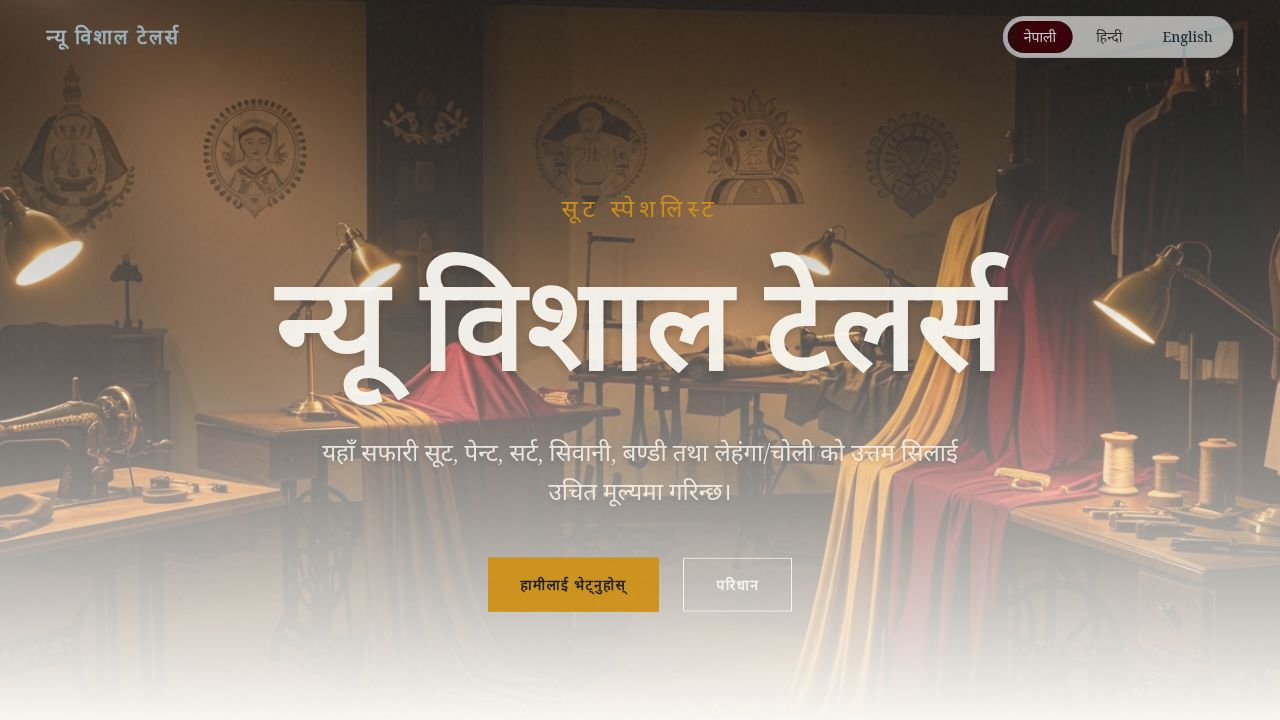
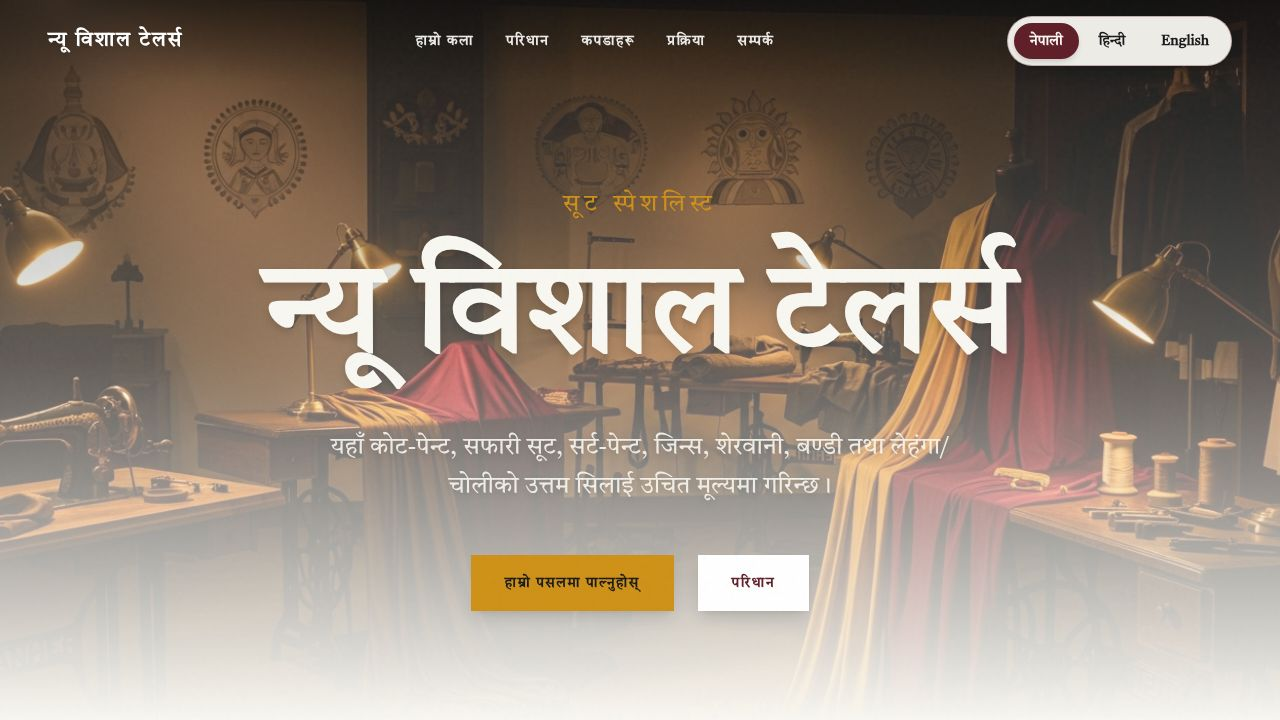
Improve website navigation, readability, and master's name accuracy
Implement smooth scrolling for navigation links, increase text contrast across the site, correct the master's name to "Molbi Mansuri" in all languages, and update the "Visit Our Atelier" text to "Visit Our Shop".

Replit-Commit-Author: Agent
Replit-Commit-Session-Id: a9e8349d-ae61-415c-960d-b4214e09bb69
Replit-Commit-Checkpoint-Type: full_checkpoint
Replit-Commit-Event-Id: ada43b0d-5d25-4c91-8212-015d30c151fc
Replit-Commit-Screenshot-Url: https://storage.googleapis.com/screenshot-production-us-central1/90add955-4820-42c9-bd46-0244ffcb3173/a9e8349d-ae61-415c-960d-b4214e09bb69/9h00boh
Replit-Helium-Checkpoint-Created: true

diff --git a/artifacts/vishal-tailors/src/lib/translations.ts b/artifacts/vishal-tailors/src/lib/translations.ts
@@ -10,9 +10,9 @@ export const translations: TranslationDictionary = {
   ne: {
     // Core details
     name: "न्यू विशाल टेलर्स",
-    owner: "मौलबी मन्सुरी",
+    owner: "मोल्बी मन्सुरी",
     tagline: "सूट स्पेशलिस्ट",
-    description: "यहाँ सफारी सूट, पेन्ट, सर्ट, सिवानी, बण्डी तथा लेहंगा/चोली को उत्तम सिलाई उचित मूल्यमा गरिन्छ।",
+    description: "यहाँ कोट-पेन्ट, सफारी सूट, सर्ट-पेन्ट, जिन्स, शेरवानी, बण्डी तथा लेहंगा/चोलीको उत्तम सिलाई उचित मूल्यमा गरिन्छ।",
     fabric: "यहाँ आधुनिक डिजाइनको कपडा हरू पाइन्छ।",
     address: "जानकी चौक-३, जनकपुरधाम, धनुषा, नेपाल",
 
@@ -26,7 +26,7 @@ export const translations: TranslationDictionary = {
     // About / Master
     about_eyebrow: "मास्टर कारीगर",
     about_title: "मास्टरको बारेमा",
-    about_desc: "दशकौं देखि जनकपुरको मुटुमा, मास्टर मौलबी मन्सुरीले मिथिलाको परम्परा र आधुनिक सिलाईलाई जोडेर उत्कृष्ट पहिरन तयार गर्दै आउनुभएको छ। हरेक सिलाईमा श्रद्धा र कला झल्किन्छ।",
+    about_desc: "दशकौंदेखि जनकपुरको मुटुमा, मास्टर मोल्बी मन्सुरीले मिथिलाको परम्परा र आधुनिक सिलाईलाई जोडेर उत्कृष्ट पहिरन तयार गर्दै आउनुभएको छ। हरेक सिलाईमा श्रद्धा र कला झल्किन्छ।",
     about_quote: "“कपडा त सुई-धागोले जोडिन्छ, तर पहिरन भने मनले बनाइन्छ।”",
     about_stat_years: "वर्षको अनुभव",
     about_stat_garments: "तयार पहिरन",
@@ -34,9 +34,9 @@ export const translations: TranslationDictionary = {
 
     // Owner portrait section
     owner_section_eyebrow: "हाम्रा मालिक",
-    owner_section_title: "मौलबी मन्सुरी",
+    owner_section_title: "मोल्बी मन्सुरी",
     owner_section_subtitle: "संस्थापक एवम् प्रमुख कारीगर",
-    owner_section_desc: "जनकपुरको गल्ली-गल्लीमा परिचित नाम, मौलबी मन्सुरीले आफ्नो जीवन सुई र धागोलाई समर्पित गर्नुभएको छ। उहाँको हातबाट निस्केको हरेक पहिरनले सम्मान र अपनत्वको कथा बोल्छ।",
+    owner_section_desc: "जनकपुरको गल्ली-गल्लीमा परिचित नाम, मोल्बी मन्सुरीले आफ्नो जीवन सुई र धागोलाई समर्पित गर्नुभएको छ। उहाँको हातबाट निस्केको हरेक पहिरनले सम्मान र अपनत्वको कथा बोल्छ।",
 
     // Garments
     garments_eyebrow: "हाम्रो संग्रह",
@@ -83,7 +83,7 @@ export const translations: TranslationDictionary = {
     // Testimonials
     testimonials_eyebrow: "ग्राहकका शब्दहरू",
     testimonials_title: "हाम्रा परिवार के भन्छन्",
-    testimonial1: "मेरो विवाहको शेरवानी जति सुन्दर थियो, सिलाई पनि त्यतिकै नाप मिल्दो थियो। मौलबी जीको हातमा साँच्चै जादु छ।",
+    testimonial1: "मेरो विवाहको शेरवानी जति सुन्दर थियो, सिलाई पनि त्यतिकै नाप मिल्दो थियो। मोल्बी जीको हातमा साँच्चै जादु छ।",
     testimonial1_author: "रामेश्वर साह — विराटनगर",
     testimonial2: "वर्षौं देखि हाम्रो परिवारले यहीँबाट सिलाउँछौं। एकपटक नाप लिएपछि सधैं उत्तम फिट हुन्छ।",
     testimonial2_author: "सुनीता देवी — जनकपुर",
@@ -124,9 +124,9 @@ export const translations: TranslationDictionary = {
   hi: {
     // Core details
     name: "न्यू विशाल टेलर्स",
-    owner: "मौलवी मंसूरी",
+    owner: "मोल्बी मंसूरी",
     tagline: "सूट स्पेशलिस्ट",
-    description: "यहाँ आधुनिक डिजाइन के शर्ट-पेन्ट, सूट, शेरवानी, कुर्ता-पायजामा की सिलाई की जाती है।",
+    description: "यहाँ कोट-पैंट, सफारी सूट, शर्ट-पैंट, जींस, शेरवानी, कुर्ता-पायजामा और लेहंगा-चोली की उत्तम सिलाई उचित मूल्य पर की जाती है।",
     fabric: "यहाँ आधुनिक डिजाइन के कपड़े उपलब्ध हैं।",
     address: "जानकी चौक-3, जनकपुरधाम, धनुषा, नेपाल",
 
@@ -140,7 +140,7 @@ export const translations: TranslationDictionary = {
     // About
     about_eyebrow: "मास्टर कारीगर",
     about_title: "मास्टर के बारे में",
-    about_desc: "दशकों से जनकपुर के हृदय में, मास्टर मौलवी मंसूरी मिथिला की परंपरा और आधुनिक सिलाई को जोड़कर उत्कृष्ट परिधान तैयार कर रहे हैं। हर सिलाई में श्रद्धा और कला झलकती है।",
+    about_desc: "दशकों से जनकपुर के हृदय में, मास्टर मोल्बी मंसूरी मिथिला की परंपरा और आधुनिक सिलाई को जोड़कर उत्कृष्ट परिधान तैयार कर रहे हैं। हर सिलाई में श्रद्धा और कला झलकती है।",
     about_quote: "“कपड़े सुई-धागे से जुड़ते हैं, परिधान मन से बनते हैं।”",
     about_stat_years: "वर्षों का अनुभव",
     about_stat_garments: "तैयार परिधान",
@@ -148,9 +148,9 @@ export const translations: TranslationDictionary = {
 
     // Owner portrait
     owner_section_eyebrow: "हमारे मालिक",
-    owner_section_title: "मौलवी मंसूरी",
+    owner_section_title: "मोल्बी मंसूरी",
     owner_section_subtitle: "संस्थापक एवं प्रमुख कारीगर",
-    owner_section_desc: "जनकपुर की गली-गली में पहचाना नाम, मौलवी मंसूरी ने अपना जीवन सुई और धागे को समर्पित किया है। उनके हाथों से बना हर परिधान सम्मान और अपनेपन की कहानी कहता है।",
+    owner_section_desc: "जनकपुर की गली-गली में पहचाना नाम, मोल्बी मंसूरी ने अपना जीवन सुई और धागे को समर्पित किया है। उनके हाथों से बना हर परिधान सम्मान और अपनेपन की कहानी कहता है।",
 
     // Garments
     garments_eyebrow: "हमारा संग्रह",
@@ -197,7 +197,7 @@ export const translations: TranslationDictionary = {
     // Testimonials
     testimonials_eyebrow: "ग्राहकों के शब्द",
     testimonials_title: "हमारे परिवार क्या कहते हैं",
-    testimonial1: "मेरी शादी की शेरवानी जितनी सुंदर थी, सिलाई भी उतनी ही सटीक थी। मौलवी जी के हाथों में सच में जादू है।",
+    testimonial1: "मेरी शादी की शेरवानी जितनी सुंदर थी, सिलाई भी उतनी ही सटीक थी। मोल्बी जी के हाथों में सच में जादू है।",
     testimonial1_author: "रामेश्वर साह — विराटनगर",
     testimonial2: "वर्षों से हमारा परिवार यहीं से सिलवाता है। एक बार नाप लेने के बाद हमेशा बेहतरीन फिट होता है।",
     testimonial2_author: "सुनीता देवी — जनकपुर",
@@ -206,7 +206,7 @@ export const translations: TranslationDictionary = {
 
     // Visit
     visit_eyebrow: "हमसे मिलें",
-    visit_title: "हमारे दुकान पर पधारें",
+    visit_title: "हमारी दुकान पर पधारें",
     visit_subtitle: "जनकपुरधाम के हृदय में, आपका स्वागत है।",
     visit_location: "पता",
     visit_phone: "फोन",
@@ -238,9 +238,9 @@ export const translations: TranslationDictionary = {
   en: {
     // Core details
     name: "New Vishal Tailors",
-    owner: "Maulvi Mansuri",
+    owner: "Molbi Mansuri",
     tagline: "Suit Specialist",
-    description: "We provide high-quality stitching services for suits, shirts, pants, sherwani, kurta-pajama, and lehenga-choli at affordable prices.",
+    description: "Premium tailoring for coat-pants, safari suits, shirts, jeans, sherwani, kurta-pajama, and lehenga-choli at honest, fair prices.",
     fabric: "Modern designer fabrics are available.",
     address: "Janaki Chowk-3, Janakpur Dham, Dhanusha, Nepal",
 
@@ -254,7 +254,7 @@ export const translations: TranslationDictionary = {
     // About
     about_eyebrow: "The Master Craftsman",
     about_title: "About the Master",
-    about_desc: "For decades in the heart of Janakpur, Master Maulvi Mansuri has blended Mithila tradition with modern tailoring to craft exquisite garments. Every stitch reflects devotion and artistry.",
+    about_desc: "For decades in the heart of Janakpur, Master Molbi Mansuri has blended Mithila tradition with modern tailoring to craft exquisite garments. Every stitch reflects devotion and artistry.",
     about_quote: "“Cloth is joined by needle and thread, but a garment is woven by the heart.”",
     about_stat_years: "Years of Heritage",
     about_stat_garments: "Garments Crafted",
@@ -262,9 +262,9 @@ export const translations: TranslationDictionary = {
 
     // Owner portrait
     owner_section_eyebrow: "Our Owner",
-    owner_section_title: "Maulvi Mansuri",
+    owner_section_title: "Molbi Mansuri",
     owner_section_subtitle: "Founder & Master Tailor",
-    owner_section_desc: "A familiar name in every lane of Janakpur, Maulvi Mansuri has devoted his life to needle and thread. Every garment from his hands tells a story of respect, care and craftsmanship.",
+    owner_section_desc: "A familiar name in every lane of Janakpur, Molbi Mansuri has devoted his life to needle and thread. Every garment from his hands tells a story of respect, care and craftsmanship.",
 
     // Garments
     garments_eyebrow: "Our Collection",
@@ -311,7 +311,7 @@ export const translations: TranslationDictionary = {
     // Testimonials
     testimonials_eyebrow: "In Their Words",
     testimonials_title: "What Our Family of Patrons Say",
-    testimonial1: "My wedding sherwani was as beautiful as it was perfectly fitted. Maulvi ji's hands truly carry magic.",
+    testimonial1: "My wedding sherwani was as beautiful as it was perfectly fitted. Molbi ji's hands truly carry magic.",
     testimonial1_author: "Rameshwar Sah — Biratnagar",
     testimonial2: "Our family has been stitching here for years. Once they take your measure, every garment fits flawlessly.",
     testimonial2_author: "Sunita Devi — Janakpur",
@@ -320,7 +320,7 @@ export const translations: TranslationDictionary = {
 
     // Visit
     visit_eyebrow: "Come See Us",
-    visit_title: "Visit Our Atelier",
+    visit_title: "Visit Our Shop",
     visit_subtitle: "In the heart of Janakpur Dham, you are always welcome.",
     visit_location: "Address",
     visit_phone: "Phone",

diff --git a/artifacts/vishal-tailors/src/pages/home.tsx b/artifacts/vishal-tailors/src/pages/home.tsx
@@ -134,7 +134,7 @@ export default function Home() {
                 href={link.href}
                 className={`text-sm uppercase tracking-widest font-semibold transition-colors duration-300 ${
                   scrolled
-                    ? "text-foreground/80 hover:text-primary"
+                    ? "text-foreground hover:text-primary"
                     : "text-white/90 hover:text-secondary drop-shadow-md"
                 }`}
               >
@@ -288,7 +288,7 @@ export default function Home() {
                 </a>
                 <a
                   href="#garments"
-                  className="px-8 py-4 bg-white/15 backdrop-blur-md text-white font-bold rounded-none tracking-widest hover:bg-white hover:text-primary transition-all uppercase text-sm border-2 border-white shadow-lg"
+                  className="px-8 py-4 bg-white text-primary font-bold rounded-none tracking-widest hover:bg-secondary hover:text-secondary-foreground transition-all uppercase text-sm border-2 border-white shadow-lg"
                 >
                   {t("nav_garments")}
                 </a>
@@ -328,7 +328,7 @@ export default function Home() {
                 {t("about_eyebrow")}
               </h3>
               <h2 className="text-4xl md:text-5xl font-bold text-primary mb-8">{t("about_title")}</h2>
-              <p className="text-lg md:text-xl text-foreground/80 leading-relaxed mb-8">
+              <p className="text-lg md:text-xl text-foreground leading-relaxed mb-8">
                 {t("about_desc")}
               </p>
               <p className="text-lg md:text-xl italic text-primary/80 leading-relaxed border-l-2 border-secondary pl-6 mb-8">
@@ -383,7 +383,7 @@ export default function Home() {
               <p className="text-lg md:text-xl text-secondary mb-8 italic">
                 {t("owner_section_subtitle")}
               </p>
-              <p className="text-base md:text-lg text-foreground/80 leading-relaxed mb-10 max-w-2xl">
+              <p className="text-base md:text-lg text-foreground leading-relaxed mb-10 max-w-2xl">
                 {t("owner_section_desc")}
               </p>
               <div className="flex items-center gap-4 text-foreground/60">
@@ -434,7 +434,7 @@ export default function Home() {
                   {t("garments_eyebrow")}
                 </p>
                 <SectionHeader title={t("garments_title")} centered={true} invert={true} />
-                <p className="text-primary-foreground/90 text-lg mt-4 max-w-2xl mx-auto">
+                <p className="text-primary-foreground text-lg mt-4 max-w-2xl mx-auto">
                   {t("garments_subtitle")}
                 </p>
               </motion.div>
@@ -491,7 +491,7 @@ export default function Home() {
                   {t("fabrics_eyebrow")}
                 </p>
                 <SectionHeader title={t("fabrics_title")} centered={true} />
-                <p className="text-foreground/85 text-lg mt-4 max-w-2xl mx-auto">
+                <p className="text-foreground text-lg mt-4 max-w-2xl mx-auto">
                   {t("fabrics_desc")}
                 </p>
               </motion.div>
@@ -525,7 +525,7 @@ export default function Home() {
                     className="p-8"
                   >
                     <h3 className="text-2xl font-bold text-primary mb-3">{t(fabric.titleKey)}</h3>
-                    <p className="text-foreground/85 leading-relaxed">{t(fabric.descKey)}</p>
+                    <p className="text-foreground/90 leading-relaxed">{t(fabric.descKey)}</p>
                   </motion.div>
                 </AnimatePresence>
               </motion.div>
@@ -550,7 +550,7 @@ export default function Home() {
                   {t("process_eyebrow")}
                 </p>
                 <SectionHeader title={t("process_title")} centered={true} />
-                <p className="text-foreground/85 text-lg mt-4 max-w-2xl mx-auto">
+                <p className="text-foreground text-lg mt-4 max-w-2xl mx-auto">
                   {t("process_subtitle")}
                 </p>
               </motion.div>
@@ -584,7 +584,7 @@ export default function Home() {
                       transition={{ duration: 0.4 }}
                     >
                       <h3 className="text-xl font-bold text-primary mb-3">{t(step.titleKey)}</h3>
-                      <p className="text-foreground/85 leading-relaxed">{t(step.descKey)}</p>
+                      <p className="text-foreground/90 leading-relaxed">{t(step.descKey)}</p>
                     </motion.div>
                   </AnimatePresence>
                 </motion.div>
@@ -635,7 +635,7 @@ export default function Home() {
                     exit={{ opacity: 0 }}
                     transition={{ duration: 0.4 }}
                   >
-                    <p className="text-lg leading-relaxed mb-8 text-primary-foreground/90 italic">
+                    <p className="text-lg leading-relaxed mb-8 text-primary-foreground italic">
                       {t(testimonial.quoteKey)}
                     </p>
                     <div className="flex items-center gap-3 pt-4 border-t border-primary-foreground/10">
@@ -668,7 +668,7 @@ export default function Home() {
                   {t("visit_eyebrow")}
                 </p>
                 <SectionHeader title={t("visit_title")} centered={true} />
-                <p className="text-foreground/85 text-lg mt-4 max-w-2xl mx-auto">
+                <p className="text-foreground text-lg mt-4 max-w-2xl mx-auto">
                   {t("visit_subtitle")}
                 </p>
               </motion.div>
@@ -787,13 +787,13 @@ export default function Home() {
                         </h4>
                         <div className="space-y-2">
                           <div className="flex justify-between items-baseline gap-4">
-                            <span className="text-foreground/80 text-sm">{t("hours_weekday")}</span>
+                            <span className="text-foreground text-sm font-medium">{t("hours_weekday")}</span>
                             <span className="text-foreground font-medium text-sm">
                               {t("hours_weekday_time")}
                             </span>
                           </div>
                           <div className="flex justify-between items-baseline gap-4">
-                            <span className="text-foreground/80 text-sm">{t("hours_saturday")}</span>
+                            <span className="text-foreground text-sm font-medium">{t("hours_saturday")}</span>
                             <span className="text-foreground font-medium text-sm">
                               {t("hours_saturday_time")}
                             </span>

diff --git a/artifacts/vishal-tailors/src/index.css b/artifacts/vishal-tailors/src/index.css
@@ -128,6 +128,15 @@
   * {
     @apply border-border;
   }
+  html {
+    scroll-behavior: smooth;
+    scroll-padding-top: 96px;
+  }
+  @media (prefers-reduced-motion: reduce) {
+    html {
+      scroll-behavior: auto;
+    }
+  }
   body {
     @apply font-sans antialiased bg-background text-foreground overflow-x-hidden;
   }